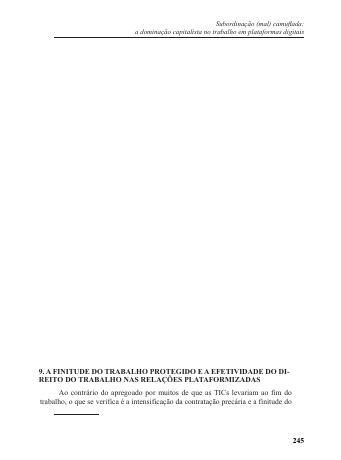
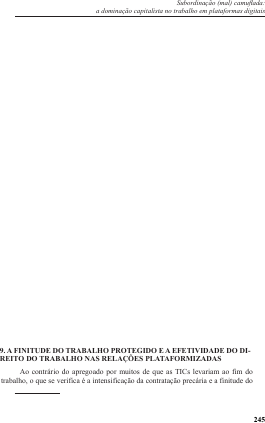
Material Didático: prévias sem margens (slides 16:9, textos aparados)
- Slides exibidos em quadro 16:9 com object-fit:cover, eliminando as
  bandas brancas dos slides 4:3 (prévia horizontal, sem sobras).
- Miniaturas dos textos de referência aparadas (trim) para mostrar a
  primeira página sem as margens brancas em cima e embaixo.

Claude-Session: https://claude.ai/code/session_01WmtDoVKG2caHhFEj4CfbJi

diff --git a/content/materiais/_index.md b/content/materiais/_index.md
@@ -18,10 +18,11 @@ sections:
         .mat-item{display:flex;gap:1rem;align-items:flex-start;background:#111419;border:1px solid #1e232c;border-radius:12px;padding:1rem 1.1rem;transition:border-color .2s,background .2s}
         .mat-item:hover{border-color:#2c3340;background:#141821}
         .mat-thumb{flex:0 0 auto;padding:0;margin:0;border:1px solid #2c3340;border-radius:8px;overflow:hidden;background:#fff;cursor:pointer;line-height:0;transition:border-color .2s,transform .15s}
-        .mat-thumb--slide{width:150px}
-        .mat-thumb--text{width:96px}
         .mat-thumb:hover{border-color:#9db4cc;transform:translateY(-1px)}
         .mat-thumb img{display:block;width:100%;height:auto}
+        .mat-thumb--slide{width:176px;aspect-ratio:16/9}
+        .mat-thumb--slide img{height:100%;object-fit:cover;object-position:center}
+        .mat-thumb--text{width:112px}
         .mat-body{flex:1 1 auto;min-width:0}
         .mat-title{font-size:.98rem;font-weight:600;color:#e8e8ea;margin:0 0 .25rem}
         .mat-desc{font-size:.86rem;line-height:1.5;color:#9aa3b0;margin:0;text-align:justify}
